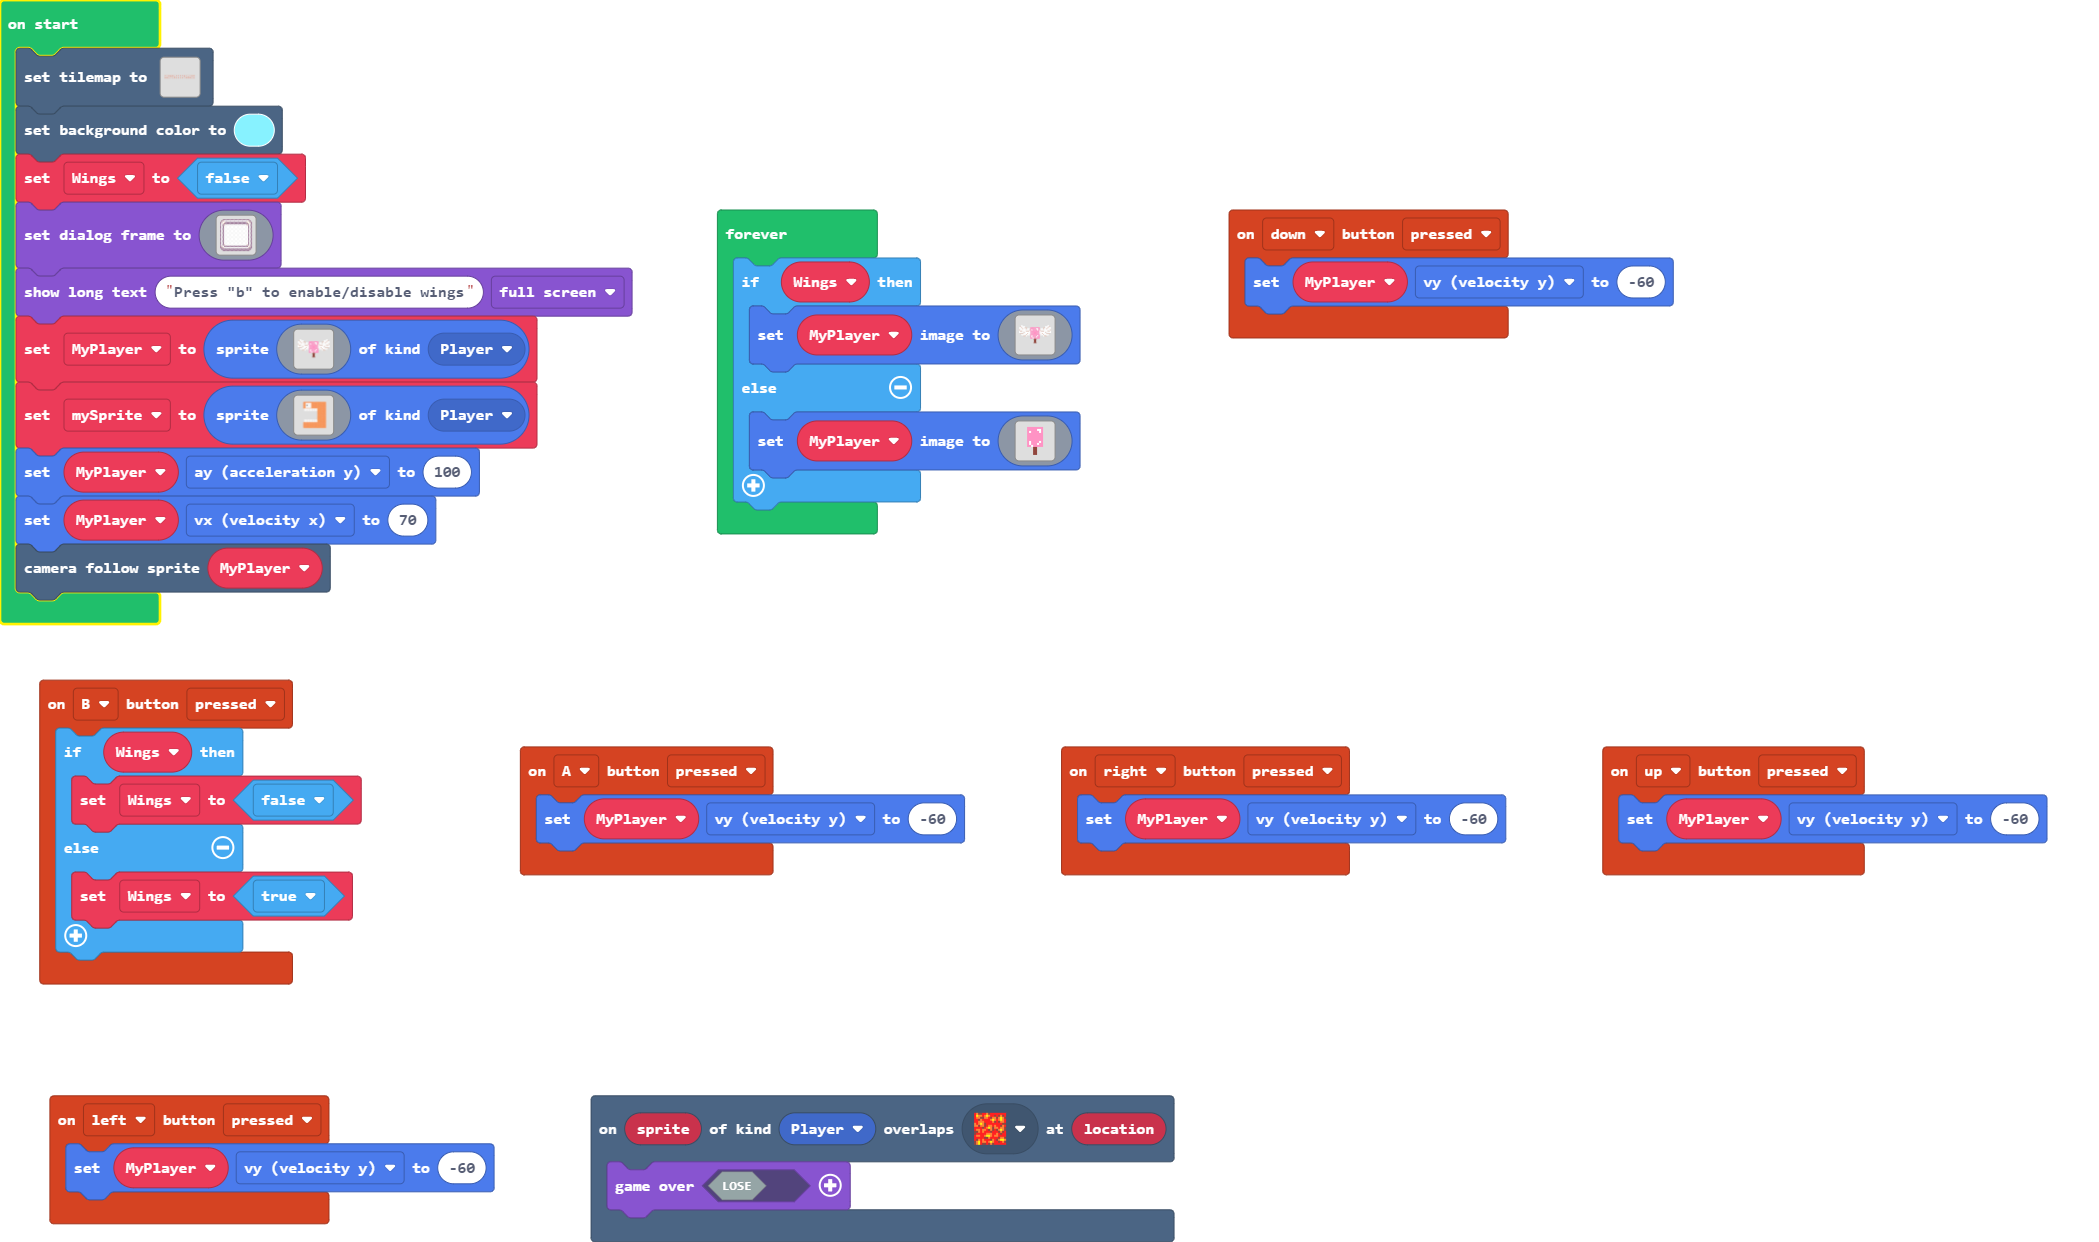
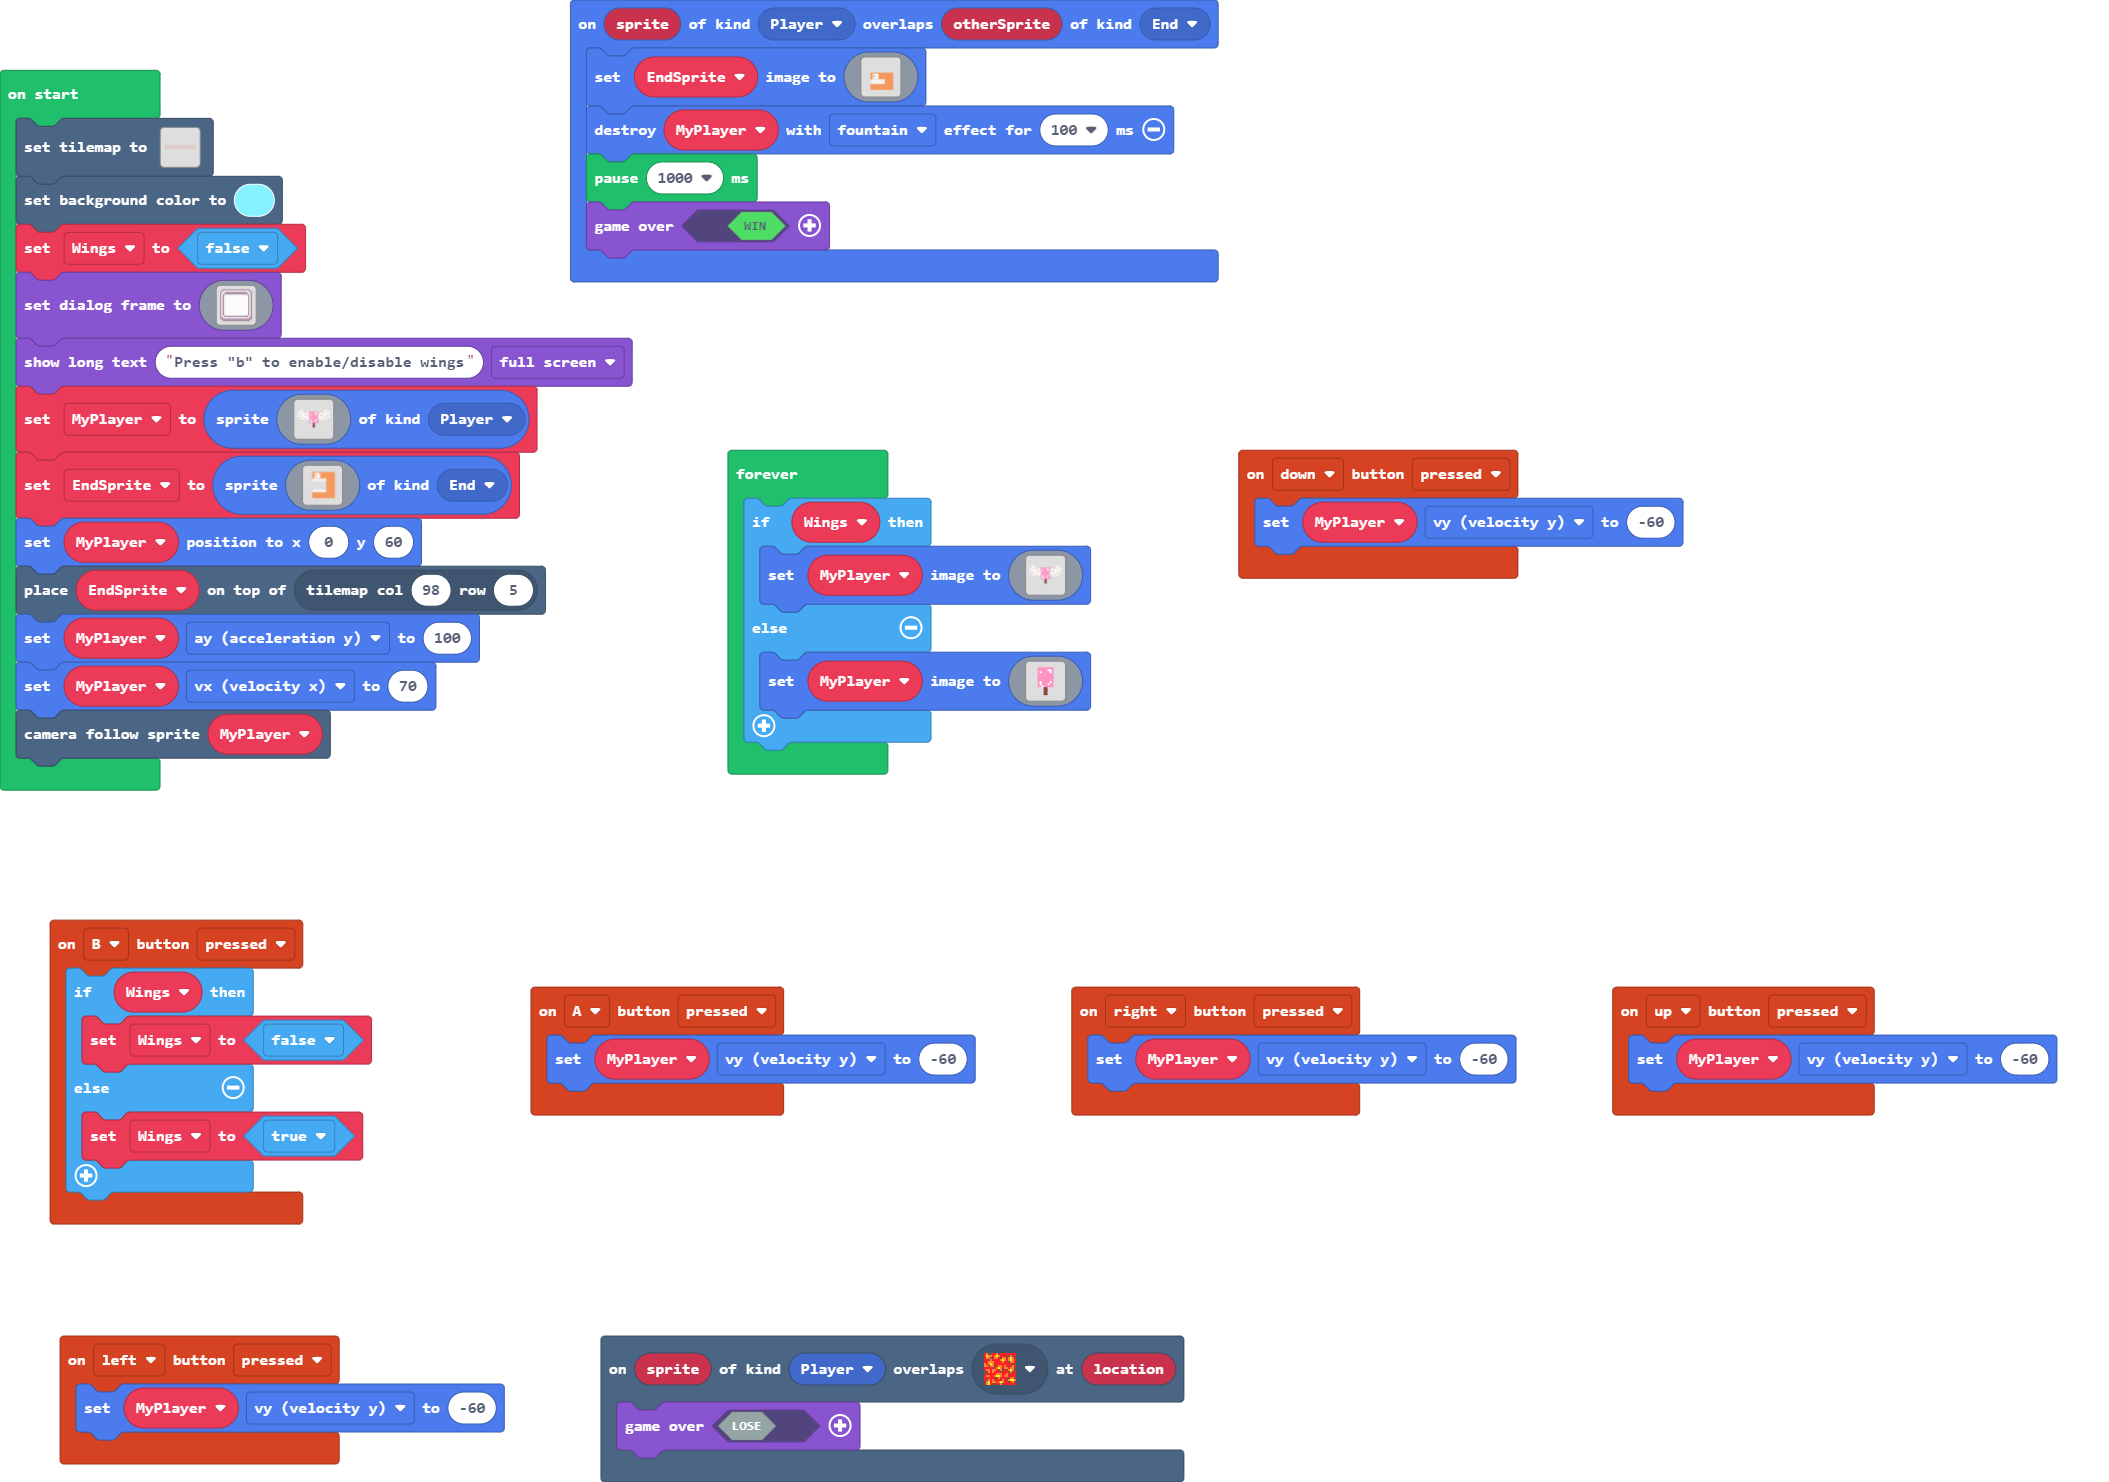
Update pxt.json, main.blocks, main.ts, images.g.jres, images.g.ts, tilemap.g.jres, tilemap.g.ts

diff --git a/images.g.ts b/images.g.ts
@@ -163,6 +163,109 @@ d11111111d31333313d11111111d
 ....................................................................................................
 ....................................................................................................
 `;
+            case "image5":
+            case "End-Mouth-Closed":return img`
+....................................................................................................
+....................................................................................................
+....................................................................................................
+....................................................................................................
+....................................................................................................
+....................................................................................................
+....................................................................................................
+....................................................................................................
+....................................................................................................
+....................................................................................................
+....................................................................................................
+....................................................................................................
+....................................................................................................
+....................................................................................................
+....................................................................................................
+....................................................................................................
+....................................................................................................
+....................................................................................................
+....................................................................................................
+....................................................................................................
+....................................................................................................
+....................................................................................................
+....................................................................................................
+....................................................................................................
+....................................................................................................
+....................................................................................................
+....................................................................................................
+....................................................................................................
+....................................................................................................
+....................................................................................................
+....................................................................................................
+....................................................................................................
+....................................................................................................
+....................................................................................................
+....................................................................................................
+....................................................................................................
+....................................................................................................
+..................4444444444444444444444444444444444444444444444444444444444444444444444............
+..................4444444444444444444444444444444444444444444444444444444444444444444444............
+..................4444444444444444444444444444444444444444444444444444444444444444444444............
+..................4444444111111111111111111444444444444444444444444444444444444444444444............
+..................4444444111111111111111111444444444444444444444444444444444444444444444............
+..................4444444111111111111111111444444444444444444444444444444444444444444444............
+..................4444444111111111111111111444444444444444444444444444444444444444444444............
+..................4444444111111111111111111444444444444444444444444444444444444444444444............
+..................4444444111111111111111111444444444444444444444444444444444444444444444............
+..................4444444111fff111111111111444444444444444444444444444444444444444444444............
+..................4444444111fff111111111111444444444444444444444444444444444444444444444............
+..................4444444111fff111111111111444444444444444444444444444444444444444444444............
+..................4444444111111111111111111444444444444444444444444444444444444444444444............
+..................4444444111111111111111111444444444444444444444444444444444444444444444............
+..................4444444111111111111111111444444444444444444444444444444444444444444444............
+..................4444444111111111111111111444444444444444444444444444444444444444444444............
+..................4444444111111111111111111444444444444444444444444444444444444444444444............
+..................4444444111111111111111111444444444444444444444444444444444444444444444............
+..................4444444111111111111111111444444444444444444444444444444444444444444444............
+..................4444444444444444444444444444444444444444444444444444444444444444444444............
+.....................11111111d1111111d1111111d1111111d1111111144444444444444444444444444............
+.....................11111111d1111111d1111111d1111111d1111111144444444444444444444444444............
+.....................11111111d1111111d1111111d1111111d1111111144444444444444444444444444............
+.....................11111111d1111111d1111111d1111111d1111111144444444444444444444444444............
+.....................11111111d1111111d1111111d1111111d1111111144444444444444444444444444............
+.....................11111111d1111111d1111111d1111111d1111111144444444444444444444444444............
+.....................11111111d1111111d1111111d1111111d1111111144444444444444444444444444............
+.....................11111111d1111111d1111111d1111111d1111111144444444444444444444444444............
+.....................11111111d1111111d1111111d1111111d1111111144444444444444444444444444............
+.....................11111111d1111111d1111111d1111111d1111111144444444444444444444444444............
+.....................11111111d1111111d1111111d1111111d1111111144444444444444444444444444............
+.....................11111111d1111111d1111111d1111111d1111111144444444444444444444444444............
+.....................11111111d1111111d1111111d1111111d1111111144444444444444444444444444............
+.....................11111111d1111111d1111111d1111111d1111111144444444444444444444444444............
+.....................11111111d1111111d1111111d1111111d1111111144444444444444444444444444............
+..................4444444444444444444444444444444444444444444444444444444444444444444444............
+..................4444444444444444444444444444444444444444444444444444444444444444444444............
+..................4444444444444444444444444444444444444444444444444444444444444444444444............
+..................4444444444444444444444444444444444444444444444444444444444444444444444............
+..................4444444444444444444444444444444444444444444444444444444444444444444444............
+..................4444444444444444444444444444444444444444444444444444444444444444444444............
+..................4444444444444444444444444444444444444444444444444444444444444444444444............
+..................4444444444444444444444444444444444444444444444444444444444444444444444............
+..................4444444444444444444444444444444444444444444444444444444444444444444444............
+..................4444444444444444444444444444444444444444444444444444444444444444444444............
+..................4444444444444444444444444444444444444444444444444444444444444444444444............
+..................4444444444444444444444444444444444444444444444444444444444444444444444............
+..................4444444444444444444444444444444444444444444444444444444444444444444444............
+..................4444444444444444444444444444444444444444444444444444444444444444444444............
+..................4444444444444444444444444444444444444444444444444444444444444444444444............
+..................4444444444444444444444444444444444444444444444444444444444444444444444............
+..................4444444444444444444444444444444444444444444444444444444444444444444444............
+..................4444444444444444444444444444444444444444444444444444444444444444444444............
+....................................................................................................
+....................................................................................................
+....................................................................................................
+....................................................................................................
+....................................................................................................
+....................................................................................................
+....................................................................................................
+....................................................................................................
+....................................................................................................
+....................................................................................................
+`;
         }
         return null;
     })

diff --git a/tilemap.g.ts b/tilemap.g.ts
@@ -10,7 +10,7 @@ namespace myTiles {
     helpers._registerFactory("tilemap", function(name: string) {
         switch(helpers.stringTrim(name)) {
             case "level1":
[2 lines of base64/hex data omitted]
 ....................................................................................................
 ....................................................................................................
 ....................................................................................................

diff --git a/main.ts b/main.ts
@@ -1,5 +1,6 @@
 namespace SpriteKind {
     export const Background = SpriteKind.create()
+    export const End = SpriteKind.create()
 }
 controller.up.onEvent(ControllerButtonEvent.Pressed, function () {
     MyPlayer.vy = -60
@@ -17,6 +18,12 @@ controller.A.onEvent(ControllerButtonEvent.Pressed, function () {
 controller.left.onEvent(ControllerButtonEvent.Pressed, function () {
     MyPlayer.vy = -60
 })
+sprites.onOverlap(SpriteKind.Player, SpriteKind.End, function (sprite, otherSprite) {
+    EndSprite.setImage(assets.image`End-Mouth-Closed`)
+    MyPlayer.destroy(effects.fountain, 100)
+    pause(1000)
+    game.over(true)
+})
 controller.right.onEvent(ControllerButtonEvent.Pressed, function () {
     MyPlayer.vy = -60
 })
@@ -26,6 +33,7 @@ controller.down.onEvent(ControllerButtonEvent.Pressed, function () {
 scene.onOverlapTile(SpriteKind.Player, assets.tile`Lava`, function (sprite, location) {
     game.over(false)
 })
+let EndSprite: Sprite = null
 let MyPlayer: Sprite = null
 let Wings = false
 tiles.setTilemap(tilemap`level1`)
@@ -59,7 +67,9 @@ game.setDialogFrame(img`
     `)
 game.showLongText("Press \"b\" to enable/disable wings", DialogLayout.Full)
 MyPlayer = sprites.create(assets.image`Player-Wings`, SpriteKind.Player)
-let mySprite = sprites.create(assets.image`End-Mouth-Open`, SpriteKind.Player)
+EndSprite = sprites.create(assets.image`End-Mouth-Open`, SpriteKind.End)
+MyPlayer.setPosition(0, 60)
+tiles.placeOnTile(EndSprite, tiles.getTileLocation(98, 5))
 MyPlayer.ay = 100
 MyPlayer.vx = 70
 scene.cameraFollowSprite(MyPlayer)
